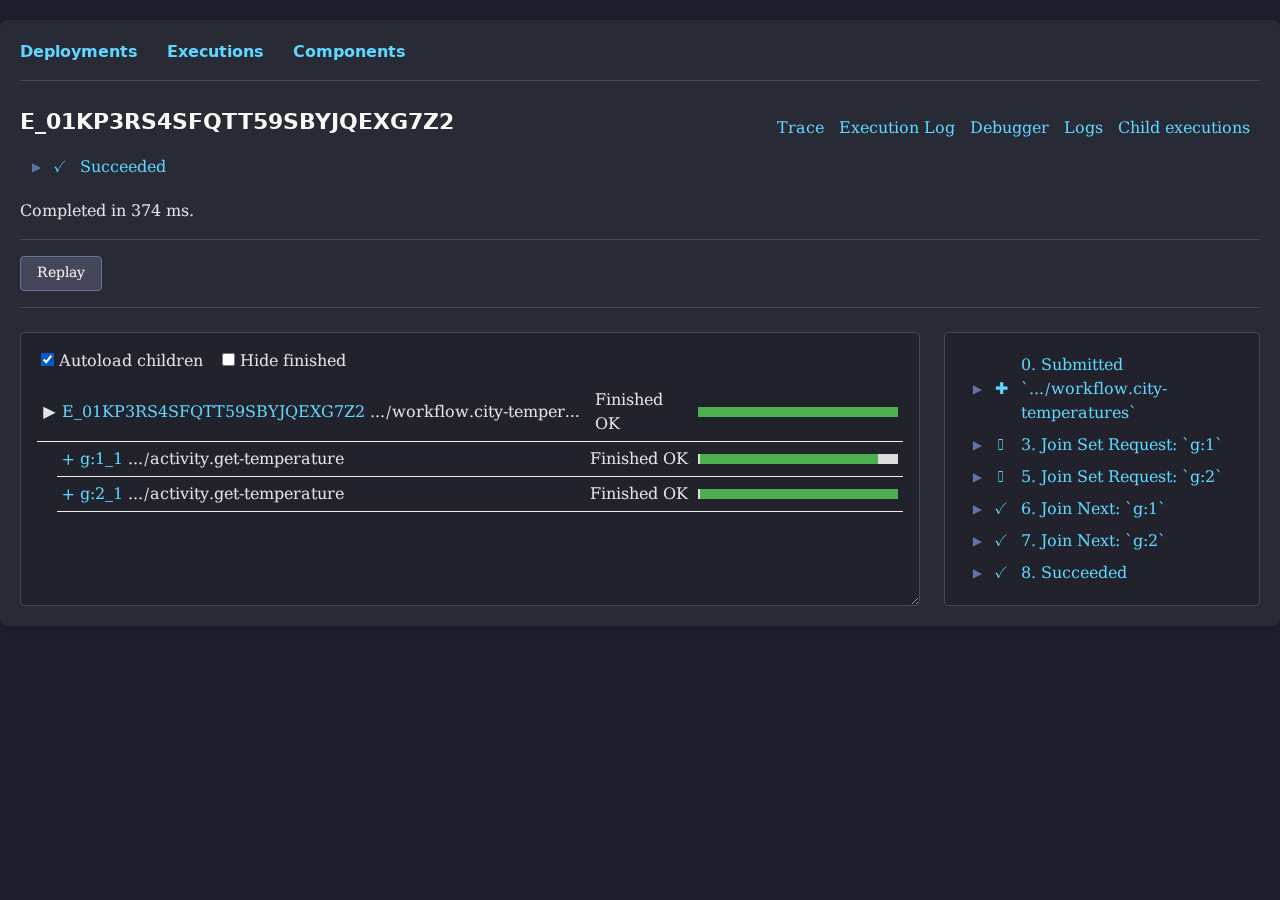
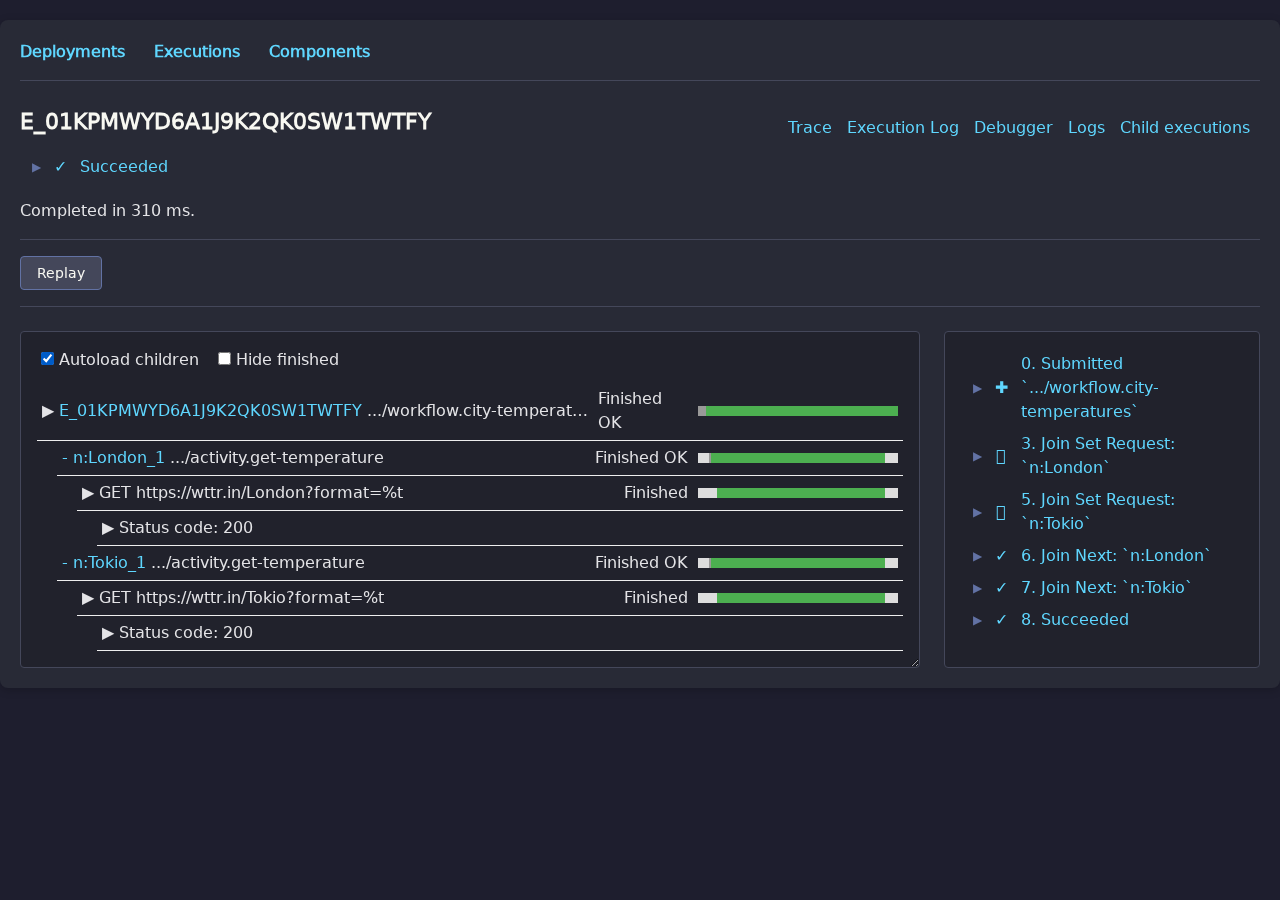
Update Weather workflow code and screenshot

diff --git a/validation/v0.37-announcement/workflow/city_temperatures.js b/validation/v0.37-announcement/workflow/city_temperatures.js
@@ -1,14 +1,18 @@
 // ffqn: myapp:weather/workflow.city-temperatures(cities: list<string>) -> result<string, string>
 export default function city_temperatures(cities) {
     const handles = cities.map(city => {
-        const js = obelisk.createJoinSet();
-        const execId = js.submit("myapp:weather/activity.get-temperature", [city]);
-        return { city, js, execId };
+        const joinSet = obelisk.createJoinSet({ name: sanitizeJoinSetName(city) });
+        const execId = joinSet.submit("myapp:weather/activity.get-temperature", [city]);
+        return { city, joinSet, execId };
     });
-    const results = handles.map(({ city, js, execId }) => {
-        const response = js.joinNext();
+    const results = handles.map(({ city, joinSet, execId }) => {
+        const response = joinSet.joinNext();
         if (!response.ok) throw `failed to fetch weather for ${city}`;
         return `${city}: ${obelisk.getResult(response.id).ok}`;
     });
     return results.join(", ");
+}
+
+function sanitizeJoinSetName(s) {
+    return s.replace(/[^A-Za-z0-9\-\/]/g, "-");
 }

diff --git a/content/blog/2026-04-13-announcing-obelisk-0-37.md b/content/blog/2026-04-13-announcing-obelisk-0-37.md
@@ -63,17 +63,21 @@ And a workflow that fetches the weather for several cities in parallel:
 ```javascript
 // ffqn: myapp:weather/workflow.city-temperatures(cities: list<string>) -> result<string, string>
 export default function city_temperatures(cities) {
-  const handles = cities.map((city) => {
-    const js = obelisk.createJoinSet();
-    const execId = js.submit("myapp:weather/activity.get-temperature", [city]);
-    return { city, js, execId };
-  });
-  const results = handles.map(({ city, js, execId }) => {
-    const response = js.joinNext();
-    if (!response.ok) throw `failed to fetch weather for ${city}`;
-    return `${city}: ${obelisk.getResult(response.id).ok}`;
-  });
-  return results.join(", ");
+    const handles = cities.map(city => {
+        const joinSet = obelisk.createJoinSet({ name: sanitizeJoinSetName(city) });
+        const execId = joinSet.submit("myapp:weather/activity.get-temperature", [city]);
+        return { city, joinSet, execId };
+    });
+    const results = handles.map(({ city, joinSet, execId }) => {
+        const response = joinSet.joinNext();
+        if (!response.ok) throw `failed to fetch weather for ${city}`;
+        return `${city}: ${obelisk.getResult(response.id).ok}`;
+    });
+    return results.join(", ");
+}
+
+function sanitizeJoinSetName(s) {
+    return s.replace(/[^A-Za-z0-9\-\/]/g, "-");
 }
 ```
 
